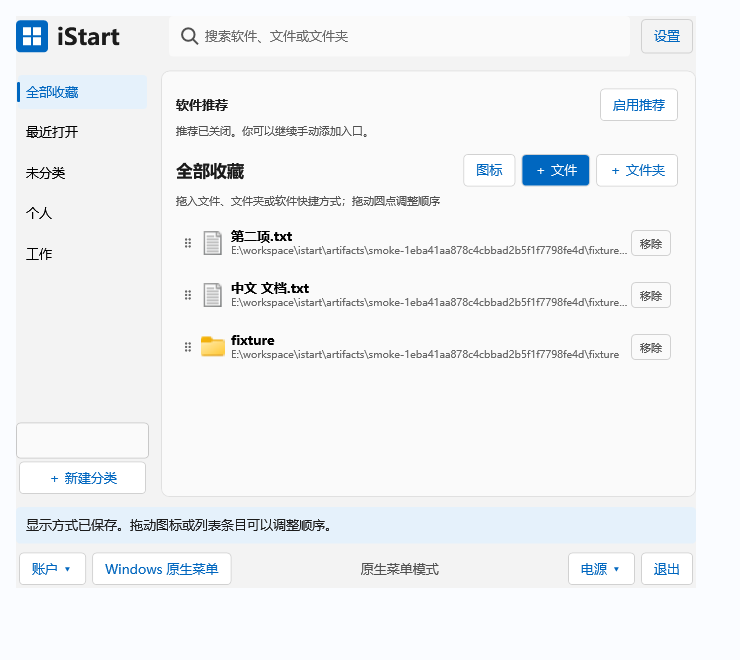
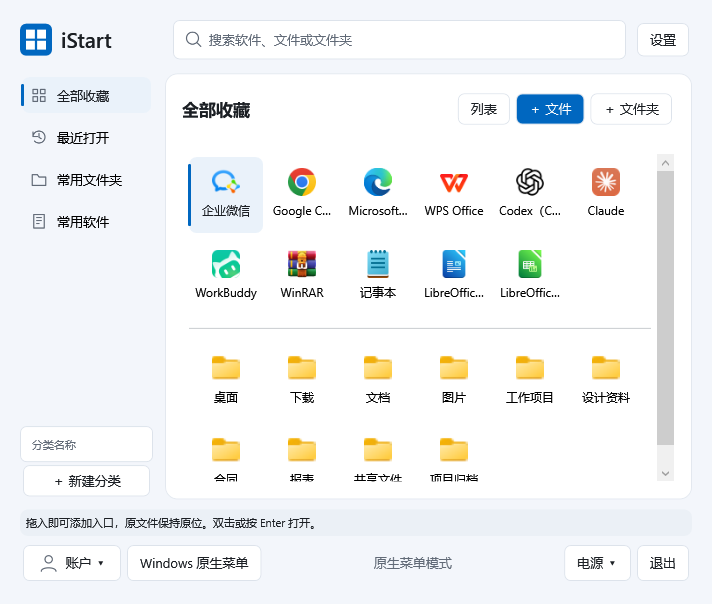
按 Figma Win11 Fluent 优化 Windows 主题并保留双风格切换

diff --git a/src/IStart.App/MainWindow.xaml b/src/IStart.App/MainWindow.xaml
@@ -1,32 +1,32 @@
 <Window x:Class="IStart.MainWindow" xmlns="http://schemas.microsoft.com/winfx/2006/xaml/presentation" xmlns:x="http://schemas.microsoft.com/winfx/2006/xaml" xmlns:local="clr-namespace:IStart"
-        Title="iStart · 个人开始菜单" Width="740" Height="660" MinWidth="620" MinHeight="540" Background="{DynamicResource Surface}" Foreground="{DynamicResource TextPrimary}" FontFamily="Microsoft YaHei UI" FontSize="13" WindowStartupLocation="CenterScreen">
+        Title="iStart · 个人开始菜单" Width="740" Height="660" MinWidth="620" MinHeight="540" Background="{DynamicResource Surface}" Foreground="{DynamicResource TextPrimary}" FontFamily="{DynamicResource MenuFont}" FontSize="13" WindowStartupLocation="CenterScreen">
   <Window.Resources>
-    <local:ShellIconConverter x:Key="ShellIcon"/>
+    <local:ShellIconConverter x:Key="ShellIcon"/><local:CategoryIconConverter x:Key="CategoryIcon"/>
     <ItemsPanelTemplate x:Key="IconPanel"><WrapPanel/></ItemsPanelTemplate>
-    <DataTemplate x:Key="EntryTile"><StackPanel Width="78" Height="68" ToolTip="{Binding Target}"><Image Source="{Binding Target, Converter={StaticResource ShellIcon}}" Width="28" Height="28" Margin="0,4,0,6"/><TextBlock Text="{Binding Title}" TextTrimming="CharacterEllipsis" TextAlignment="Center"/></StackPanel></DataTemplate>
+    <DataTemplate x:Key="EntryTile"><StackPanel Width="{DynamicResource TileWidth}" Height="{DynamicResource TileHeight}" ToolTip="{Binding Target}"><Image Source="{Binding Target, Converter={StaticResource ShellIcon}}" Width="28" Height="28" Margin="0,4,0,6"/><TextBlock Text="{Binding Title}" FontSize="{DynamicResource TileFontSize}" TextTrimming="CharacterEllipsis" TextAlignment="Center"/></StackPanel></DataTemplate>
   </Window.Resources>
-  <Grid Margin="16" Background="{DynamicResource Surface}">
+  <Grid Margin="{DynamicResource WindowPadding}" Background="{DynamicResource Surface}">
     <Grid.RowDefinitions><RowDefinition Height="Auto"/><RowDefinition Height="*"/><RowDefinition Height="Auto"/><RowDefinition Height="Auto"/></Grid.RowDefinitions>
     <Grid Margin="0,0,0,14">
       <Grid.ColumnDefinitions><ColumnDefinition Width="145"/><ColumnDefinition Width="*"/><ColumnDefinition Width="Auto"/></Grid.ColumnDefinitions>
-      <StackPanel Orientation="Horizontal" VerticalAlignment="Center"><Border Background="{DynamicResource Accent}" CornerRadius="{DynamicResource BrandRadius}" Width="32" Height="32" Margin="0,0,9,0"><Grid><Path Data="M0,0 H8 V8 H0 Z M10,0 H18 V8 H10 Z M0,10 H8 V18 H0 Z M10,10 H18 V18 H10 Z" Fill="White" Width="18" Height="18" Stretch="Uniform" HorizontalAlignment="Center" VerticalAlignment="Center" Visibility="{DynamicResource WindowsBrandVisibility}"/><TextBlock Visibility="{DynamicResource GoogleBrandVisibility}" Text="i" Foreground="White" FontSize="23" FontWeight="Bold" HorizontalAlignment="Center" VerticalAlignment="Center"/></Grid></Border><TextBlock Text="iStart" FontSize="23" FontWeight="SemiBold" VerticalAlignment="Center"/></StackPanel>
-      <Grid Grid.Column="1" Margin="8,0"><TextBox x:Name="SearchBox" TextChanged="SearchChanged" ToolTip="搜索软件、文件或文件夹" AutomationProperties.Name="搜索软件和收藏" Padding="36,12,12,12" BorderThickness="0"/><Path Data="M 12,3 A 9,9 0 1 1 11.99,3 M 19,19 L 26,26" Stroke="{DynamicResource TextSecondary}" StrokeThickness="2" Width="18" Height="18" Stretch="Uniform" HorizontalAlignment="Left" Margin="12,0,0,0" VerticalAlignment="Center" IsHitTestVisible="False"/><TextBlock Text="搜索软件、文件或文件夹" Foreground="{DynamicResource TextMuted}" Margin="36,0,0,0" VerticalAlignment="Center" IsHitTestVisible="False"><TextBlock.Style><Style TargetType="TextBlock"><Setter Property="Visibility" Value="Collapsed"/><Style.Triggers><DataTrigger Binding="{Binding Text, ElementName=SearchBox}" Value=""><Setter Property="Visibility" Value="Visible"/></DataTrigger></Style.Triggers></Style></TextBlock.Style></TextBlock></Grid>
-      <Button Grid.Column="2" Content="设置" Background="Transparent" Click="OpenSettings" AutomationProperties.Name="设置"/>
+      <StackPanel Orientation="Horizontal" VerticalAlignment="Center"><Border Background="{DynamicResource Accent}" CornerRadius="{DynamicResource BrandRadius}" Width="32" Height="32" Margin="0,0,9,0"><Grid><Path Data="M0,0 H8 V8 H0 Z M10,0 H18 V8 H10 Z M0,10 H8 V18 H0 Z M10,10 H18 V18 H10 Z" Fill="White" Width="{DynamicResource BrandIconSize}" Height="{DynamicResource BrandIconSize}" Stretch="Uniform" HorizontalAlignment="Center" VerticalAlignment="Center" Visibility="{DynamicResource WindowsBrandVisibility}"/><TextBlock Visibility="{DynamicResource GoogleBrandVisibility}" Text="i" Foreground="White" FontSize="23" FontWeight="Bold" HorizontalAlignment="Center" VerticalAlignment="Center"/></Grid></Border><TextBlock Text="iStart" FontSize="{DynamicResource BrandTitleSize}" FontWeight="SemiBold" VerticalAlignment="Center"/></StackPanel>
+      <Grid Grid.Column="1" Margin="8,0"><TextBox x:Name="SearchBox" TextChanged="SearchChanged" ToolTip="搜索软件、文件或文件夹" AutomationProperties.Name="搜索软件和收藏" Padding="{DynamicResource SearchPadding}" BorderThickness="{DynamicResource SearchBorder}"/><Path Data="M 12,3 A 9,9 0 1 1 11.99,3 M 19,19 L 26,26" Stroke="{DynamicResource TextSecondary}" StrokeThickness="2" Width="18" Height="18" Stretch="Uniform" HorizontalAlignment="Left" Margin="12,0,0,0" VerticalAlignment="Center" IsHitTestVisible="False" Visibility="{DynamicResource GoogleBrandVisibility}"/><Image Source="Assets/Fluent/search.png" Width="18" Height="18" HorizontalAlignment="Left" Margin="12,0,0,0" VerticalAlignment="Center" IsHitTestVisible="False" Visibility="{DynamicResource WindowsBrandVisibility}"/><TextBlock Text="搜索软件、文件或文件夹" Foreground="{DynamicResource TextMuted}" Margin="36,0,0,0" VerticalAlignment="Center" IsHitTestVisible="False"><TextBlock.Style><Style TargetType="TextBlock"><Setter Property="Visibility" Value="Collapsed"/><Style.Triggers><DataTrigger Binding="{Binding Text, ElementName=SearchBox}" Value=""><Setter Property="Visibility" Value="Visible"/></DataTrigger></Style.Triggers></Style></TextBlock.Style></TextBlock></Grid>
+      <Button Grid.Column="2" Content="设置" Background="{DynamicResource SettingsSurface}" Click="OpenSettings" AutomationProperties.Name="设置"/>
     </Grid>
     <Grid Grid.Row="1">
       <Grid.ColumnDefinitions><ColumnDefinition Width="145"/><ColumnDefinition Width="*"/></Grid.ColumnDefinitions>
       <DockPanel Margin="0,0,12,0">
         <StackPanel DockPanel.Dock="Bottom">
-          <TextBox x:Name="CategoryName" Height="36" ToolTip="新分类名称" AutomationProperties.Name="新分类名称"/>
+          <Grid><TextBox x:Name="CategoryName" Height="36" ToolTip="新分类名称" AutomationProperties.Name="新分类名称"/><TextBlock Text="分类名称" FontSize="11" Foreground="{DynamicResource TextMuted}" Margin="12,0,0,0" VerticalAlignment="Center" IsHitTestVisible="False"><TextBlock.Style><Style TargetType="TextBlock"><Setter Property="Visibility" Value="Collapsed"/><Style.Triggers><DataTrigger Binding="{Binding Text, ElementName=CategoryName}" Value=""><Setter Property="Visibility" Value="{DynamicResource WindowsBrandVisibility}"/></DataTrigger></Style.Triggers></Style></TextBlock.Style></TextBlock></Grid>
           <Button Content="＋ 新建分类" Click="AddCategory"/>
         </StackPanel>
-        <ListBox x:Name="CategoryList" BorderThickness="0" Background="Transparent" SelectionChanged="CategoryChanged" AllowDrop="True" Drop="CategoryDrop" DragOver="CategoryDragOver" PreviewMouseLeftButtonDown="CategoryMouseDown" PreviewMouseMove="CategoryMouseMove" DisplayMemberPath="Name" ContextMenuOpening="CategoryContextMenu" AutomationProperties.Name="分类">
-          <ListBox.ItemContainerStyle><Style TargetType="ListBoxItem" BasedOn="{StaticResource {x:Type ListBoxItem}}"><Setter Property="Padding" Value="8,9"/></Style></ListBox.ItemContainerStyle>
+        <ListBox x:Name="CategoryList" BorderThickness="0" Background="Transparent" SelectionChanged="CategoryChanged" AllowDrop="True" Drop="CategoryDrop" DragOver="CategoryDragOver" PreviewMouseLeftButtonDown="CategoryMouseDown" PreviewMouseMove="CategoryMouseMove" ContextMenuOpening="CategoryContextMenu" AutomationProperties.Name="分类">
+          <ListBox.ItemContainerStyle><Style TargetType="ListBoxItem" BasedOn="{StaticResource {x:Type ListBoxItem}}"><Setter Property="Padding" Value="8,9"/></Style></ListBox.ItemContainerStyle><ListBox.ItemTemplate><DataTemplate><StackPanel Orientation="Horizontal"><Image Source="{Binding Converter={StaticResource CategoryIcon}}" Width="18" Height="18" Margin="0,0,9,0" Visibility="{DynamicResource WindowsBrandVisibility}"/><TextBlock Text="{Binding Name}" VerticalAlignment="Center"/></StackPanel></DataTemplate></ListBox.ItemTemplate>
           <ListBox.ContextMenu><ContextMenu/></ListBox.ContextMenu>
 
         </ListBox>
       </DockPanel>
-      <Border Grid.Column="1" Background="{DynamicResource ContentSurface}" CornerRadius="{DynamicResource CardRadius}" BorderBrush="{DynamicResource CardOutline}" BorderThickness="1" Padding="14"><DockPanel>
+      <Border Grid.Column="1" Background="{DynamicResource ContentSurface}" CornerRadius="{DynamicResource CardRadius}" BorderBrush="{DynamicResource CardOutline}" BorderThickness="1" Padding="{DynamicResource ContentPadding}"><DockPanel>
         <StackPanel DockPanel.Dock="Top">
           <StackPanel x:Name="SoftwarePanel" Visibility="Collapsed">
           <TextBlock x:Name="RecommendationTitle" Text="软件搜索结果" FontWeight="SemiBold" Visibility="Collapsed"/>
@@ -34,7 +34,7 @@
           <ScrollViewer MaxHeight="210" VerticalScrollBarVisibility="Auto" HorizontalScrollBarVisibility="Disabled"><WrapPanel x:Name="Recommendations" Margin="0,5,0,8"/></ScrollViewer>
           </StackPanel>
           <DockPanel><StackPanel Orientation="Horizontal" DockPanel.Dock="Right"><Button x:Name="ViewToggle" Content="图标" Click="ToggleView"/><Button Content="＋ 文件" Style="{StaticResource PrimaryButton}" Click="AddFile"/><Button Content="＋ 文件夹" Click="AddFolder"/></StackPanel><TextBlock x:Name="SectionTitle" Text="我的收藏" FontSize="17" FontWeight="SemiBold" VerticalAlignment="Center"/></DockPanel>
-          <TextBlock Text="拖入文件、文件夹或软件快捷方式；拖动圆点调整顺序" Foreground="{DynamicResource TextSecondary}" FontSize="11" Margin="0,4,0,9" TextWrapping="Wrap"/>
+          <TextBlock Visibility="{DynamicResource GoogleBrandVisibility}" Text="拖入文件、文件夹或软件快捷方式；拖动圆点调整顺序" Foreground="{DynamicResource TextSecondary}" FontSize="11" Margin="0,4,0,9" TextWrapping="Wrap"/>
         </StackPanel>
         <TextBlock x:Name="SearchStatus" DockPanel.Dock="Top" TextWrapping="Wrap" Foreground="{DynamicResource TextSecondary}" Margin="0,0,0,8"/><ListBox x:Name="EntryList" BorderThickness="0" Background="{DynamicResource ContentSurface}" ScrollViewer.HorizontalScrollBarVisibility="Disabled" AllowDrop="True" Drop="EntryDrop" DragOver="EntryDragOver" DragLeave="EntryDragLeave" PreviewMouseLeftButtonDown="EntryMouseLeftButtonDown" PreviewMouseMove="EntryMouseMove" MouseDoubleClick="OpenSelected" KeyDown="EntryKeyDown" ContextMenuOpening="EntryContextMenu" AutomationProperties.Name="收藏入口">
           <ListBox.ContextMenu><ContextMenu/></ListBox.ContextMenu>
@@ -60,7 +60,7 @@
         </ListBox>
       </DockPanel></Border>
     </Grid>
-    <Border Grid.Row="2" Background="{DynamicResource AccentSoft}" CornerRadius="{DynamicResource StatusRadius}" Padding="10" Margin="0,10,0,6"><DockPanel><Button x:Name="UndoButton" Content="撤销移除" Visibility="Collapsed" DockPanel.Dock="Right" Click="UndoRemove"/><TextBlock x:Name="StatusText" Text="拖入即可添加入口，原文件保持原位。双击或按 Enter 打开。" TextWrapping="Wrap" VerticalAlignment="Center"/></DockPanel></Border>
-    <Grid Grid.Row="3"><Grid.ColumnDefinitions><ColumnDefinition Width="Auto"/><ColumnDefinition Width="*"/><ColumnDefinition Width="Auto"/></Grid.ColumnDefinitions><StackPanel Orientation="Horizontal"><Button Content="账户 ▾" Click="AccountMenu"/><Button Content="Windows 原生菜单" Click="OpenNative"/></StackPanel><TextBlock x:Name="ModeStatus" Grid.Column="1" Text="原生菜单模式" Foreground="{DynamicResource TextSecondary}" VerticalAlignment="Center" HorizontalAlignment="Center"/><StackPanel Grid.Column="2" Orientation="Horizontal"><Button Content="电源 ▾" Click="PowerMenu"/><Button Content="退出" Click="Exit"/></StackPanel></Grid>
+    <Border Grid.Row="2" Background="{DynamicResource StatusSurface}" CornerRadius="{DynamicResource StatusRadius}" Padding="{DynamicResource StatusPadding}" Margin="0,10,0,6"><DockPanel><Button x:Name="UndoButton" Content="撤销移除" Visibility="Collapsed" DockPanel.Dock="Right" Click="UndoRemove"/><TextBlock x:Name="StatusText" FontSize="{DynamicResource StatusFontSize}" Text="拖入即可添加入口，原文件保持原位。双击或按 Enter 打开。" TextWrapping="Wrap" VerticalAlignment="Center"/></DockPanel></Border>
+    <Grid Grid.Row="3"><Grid.ColumnDefinitions><ColumnDefinition Width="Auto"/><ColumnDefinition Width="*"/><ColumnDefinition Width="Auto"/></Grid.ColumnDefinitions><StackPanel Orientation="Horizontal"><Button Click="AccountMenu" MinWidth="{DynamicResource AccountMinWidth}"><StackPanel Orientation="Horizontal"><Image Source="Assets/Fluent/account.png" Width="22" Height="22" Margin="0,0,6,0" Visibility="{DynamicResource WindowsBrandVisibility}"/><TextBlock Text="账户 ▾" VerticalAlignment="Center"/></StackPanel></Button><Button Content="Windows 原生菜单" Click="OpenNative"/></StackPanel><TextBlock x:Name="ModeStatus" Grid.Column="1" Text="原生菜单模式" Foreground="{DynamicResource TextSecondary}" VerticalAlignment="Center" HorizontalAlignment="Center"/><StackPanel Grid.Column="2" Orientation="Horizontal"><Button Content="电源 ▾" Click="PowerMenu"/><Button Content="退出" Click="Exit"/></StackPanel></Grid>
   </Grid>
 </Window>

diff --git a/src/IStart.App/App.xaml b/src/IStart.App/App.xaml
@@ -2,9 +2,9 @@
   <Application.Resources>
     <!-- 运行时由 Appearance 提供可动态切换的颜色与形状资源。 -->
     <Style TargetType="Button">
-      <Setter Property="Background" Value="{DynamicResource ButtonSurface}"/><Setter Property="Foreground" Value="{DynamicResource Accent}"/>
+      <Setter Property="Background" Value="{DynamicResource ButtonSurface}"/><Setter Property="Foreground" Value="{DynamicResource ButtonText}"/>
       <Setter Property="BorderBrush" Value="{DynamicResource ButtonOutline}"/><Setter Property="BorderThickness" Value="1"/>
-      <Setter Property="Padding" Value="12,7"/><Setter Property="Margin" Value="3"/><Setter Property="Cursor" Value="Hand"/>
+      <Setter Property="Padding" Value="{DynamicResource ButtonPadding}"/><Setter Property="Margin" Value="3"/><Setter Property="Cursor" Value="Hand"/>
       <Setter Property="Template"><Setter.Value><ControlTemplate TargetType="Button">
         <Border x:Name="Surface" Background="{TemplateBinding Background}" BorderBrush="{TemplateBinding BorderBrush}" BorderThickness="{TemplateBinding BorderThickness}" CornerRadius="{DynamicResource ButtonRadius}" Padding="{TemplateBinding Padding}">
           <ContentPresenter HorizontalAlignment="Center" VerticalAlignment="Center" RecognizesAccessKey="True"/>
@@ -21,15 +21,15 @@
     <Style TargetType="TextBox">
       <Setter Property="Padding" Value="12,8"/><Setter Property="Background" Value="{DynamicResource ContentSurface}"/><Setter Property="BorderBrush" Value="{DynamicResource Outline}"/><Setter Property="BorderThickness" Value="1"/>
       <Setter Property="Template"><Setter.Value><ControlTemplate TargetType="TextBox">
-        <Border x:Name="Surface" CornerRadius="{DynamicResource InputRadius}" Background="{TemplateBinding Background}" BorderBrush="{TemplateBinding BorderBrush}" BorderThickness="{TemplateBinding BorderThickness}"><ScrollViewer x:Name="PART_ContentHost" Focusable="False"/></Border>
-        <ControlTemplate.Triggers><Trigger Property="IsKeyboardFocused" Value="True"><Setter TargetName="Surface" Property="BorderBrush" Value="{DynamicResource Accent}"/></Trigger><Trigger Property="IsEnabled" Value="False"><Setter TargetName="Surface" Property="Opacity" Value="0.45"/></Trigger></ControlTemplate.Triggers>
+        <Grid><Border x:Name="Surface" CornerRadius="{DynamicResource InputRadius}" Background="{TemplateBinding Background}" BorderBrush="{TemplateBinding BorderBrush}" BorderThickness="{TemplateBinding BorderThickness}"><ScrollViewer x:Name="PART_ContentHost" Focusable="False"/></Border><Border x:Name="FocusLine" Height="2" Margin="6,0" VerticalAlignment="Bottom" Background="{DynamicResource Accent}" CornerRadius="1" Visibility="Collapsed" IsHitTestVisible="False"/></Grid>
+        <ControlTemplate.Triggers><Trigger Property="IsKeyboardFocused" Value="True"><Setter TargetName="Surface" Property="BorderBrush" Value="{DynamicResource InputFocusOutline}"/><Setter TargetName="FocusLine" Property="Visibility" Value="{DynamicResource WindowsBrandVisibility}"/></Trigger><Trigger Property="IsEnabled" Value="False"><Setter TargetName="Surface" Property="Opacity" Value="0.45"/></Trigger></ControlTemplate.Triggers>
       </ControlTemplate></Setter.Value></Setter>
     </Style>
     <Style TargetType="ListBoxItem">
       <Setter Property="Padding" Value="8"/><Setter Property="Margin" Value="0,2"/><Setter Property="HorizontalContentAlignment" Value="Stretch"/><Setter Property="Background" Value="Transparent"/>
       <Setter Property="Template"><Setter.Value><ControlTemplate TargetType="ListBoxItem">
         <Grid><Border x:Name="Surface" CornerRadius="{DynamicResource ItemRadius}" Background="{TemplateBinding Background}" BorderBrush="{TemplateBinding BorderBrush}" BorderThickness="{TemplateBinding BorderThickness}" Padding="{TemplateBinding Padding}"><ContentPresenter/></Border><Border x:Name="SelectionIndicator" Width="3" CornerRadius="1" HorizontalAlignment="Left" Margin="0,8" Background="{DynamicResource Accent}" Visibility="Collapsed"/></Grid>
-        <ControlTemplate.Triggers><Trigger Property="IsMouseOver" Value="True"><Setter TargetName="Surface" Property="Background" Value="{DynamicResource HoverSurface}"/></Trigger><Trigger Property="IsSelected" Value="True"><Setter TargetName="SelectionIndicator" Property="Visibility" Value="{DynamicResource SelectionIndicatorVisibility}"/><Setter TargetName="Surface" Property="Background" Value="{DynamicResource AccentSoft}"/><Setter Property="Foreground" Value="{DynamicResource Accent}"/></Trigger><Trigger Property="IsKeyboardFocusWithin" Value="True"><Setter TargetName="Surface" Property="BorderBrush" Value="{DynamicResource Accent}"/><Setter TargetName="Surface" Property="BorderThickness" Value="1"/></Trigger></ControlTemplate.Triggers>
+        <ControlTemplate.Triggers><Trigger Property="IsMouseOver" Value="True"><Setter TargetName="Surface" Property="Background" Value="{DynamicResource HoverSurface}"/></Trigger><Trigger Property="IsSelected" Value="True"><Setter TargetName="SelectionIndicator" Property="Visibility" Value="{DynamicResource SelectionIndicatorVisibility}"/><Setter TargetName="Surface" Property="Background" Value="{DynamicResource AccentSoft}"/><Setter Property="Foreground" Value="{DynamicResource SelectionText}"/></Trigger><Trigger Property="IsKeyboardFocusWithin" Value="True"><Setter TargetName="Surface" Property="BorderBrush" Value="{DynamicResource Accent}"/><Setter TargetName="Surface" Property="BorderThickness" Value="1"/></Trigger></ControlTemplate.Triggers>
       </ControlTemplate></Setter.Value></Setter>
     </Style>
   </Application.Resources>

diff --git a/src/IStart.App/Appearance.cs b/src/IStart.App/Appearance.cs
@@ -15,24 +15,43 @@ internal static class Appearance
             brush.Freeze();
             resources[key] = brush;
         }
-        Brush("Surface", windows ? "#F3F3F3" : "#F8FAFD");
-        Brush("ContentSurface", windows ? "#FAFAFA" : "#FFFFFF");
-        Brush("TextPrimary", windows ? "#1B1B1B" : "#202124");
-        Brush("TextSecondary", windows ? "#505050" : "#5F6368");
-        Brush("TextMuted", windows ? "#666666" : "#80868B");
+        Brush("Surface", windows ? "#F3F6FB" : "#F8FAFD");
+        Brush("ContentSurface", "#FFFFFF");
+        Brush("TextPrimary", windows ? "#1B1F24" : "#202124");
+        Brush("TextSecondary", windows ? "#616A77" : "#5F6368");
+        Brush("TextMuted", windows ? "#616A77" : "#80868B");
         Brush("Accent", windows ? "#0067C0" : "#0B57D0");
-        Brush("AccentSoft", windows ? "#E5F1FB" : "#E8F0FE");
+        Brush("AccentSoft", windows ? "#EAF2FA" : "#E8F0FE");
         Brush("ButtonSurface", windows ? "#FFFFFF" : "#E8F0FE");
-        Brush("ButtonOutline", windows ? "#D1D1D1" : "#00000000");
-        Brush("Outline", windows ? "#C8C8C8" : "#DADCE0");
-        Brush("CardOutline", windows ? "#E0E0E0" : "#00000000");
-        Brush("HoverSurface", windows ? "#E9E9E9" : "#F1F5FC");
-        resources["ButtonRadius"] = new CornerRadius(windows ? 4 : 16);
-        resources["InputRadius"] = new CornerRadius(windows ? 4 : 14);
-        resources["ItemRadius"] = new CornerRadius(windows ? 4 : 12);
-        resources["CardRadius"] = new CornerRadius(windows ? 8 : 20);
-        resources["StatusRadius"] = new CornerRadius(windows ? 4 : 12);
-        resources["BrandRadius"] = new CornerRadius(windows ? 4 : 10);
+        Brush("ButtonOutline", windows ? "#DDE3EB" : "#00000000");
+        Brush("Outline", windows ? "#DDE3EB" : "#DADCE0");
+        Brush("CardOutline", windows ? "#E3E8EF" : "#00000000");
+        Brush("HoverSurface", windows ? "#F0F4F9" : "#F1F5FC");
+        Brush("ButtonText", windows ? "#1B1F24" : "#0B57D0");
+        Brush("SelectionText", windows ? "#1B1F24" : "#0B57D0");
+        Brush("InputFocusOutline", windows ? "#DDE3EB" : "#0B57D0");
+        Brush("StatusSurface", windows ? "#EBF0F6" : "#E8F0FE");
+        Brush("SettingsSurface", windows ? "#FFFFFF" : "#00000000");
+        resources["ButtonRadius"] = new CornerRadius(windows ? 6 : 16);
+        resources["InputRadius"] = new CornerRadius(windows ? 6 : 14);
+        resources["ItemRadius"] = new CornerRadius(windows ? 8 : 12);
+        resources["CardRadius"] = new CornerRadius(windows ? 12 : 20);
+        resources["StatusRadius"] = new CornerRadius(windows ? 8 : 12);
+        resources["BrandRadius"] = new CornerRadius(windows ? 6 : 10);
+        resources["WindowPadding"] = new Thickness(windows ? 20 : 16);
+        resources["ContentPadding"] = new Thickness(windows ? 16 : 14);
+        resources["ButtonPadding"] = new Thickness(12, windows ? 6 : 7, 12, windows ? 6 : 7);
+        resources["SearchPadding"] = new Thickness(36, windows ? 10 : 12, 12, windows ? 10 : 12);
+        resources["SearchBorder"] = new Thickness(windows ? 1 : 0);
+        resources["TileWidth"] = windows ? 64.0 : 78.0;
+        resources["TileHeight"] = windows ? 62.0 : 68.0;
+        resources["TileFontSize"] = windows ? 12.0 : 13.0;
+        resources["BrandIconSize"] = windows ? 20.0 : 18.0;
+        resources["BrandTitleSize"] = windows ? 21.0 : 23.0;
+        resources["StatusPadding"] = new Thickness(windows ? 6 : 10);
+        resources["StatusFontSize"] = windows ? 11.0 : 13.0;
+        resources["AccountMinWidth"] = windows ? 98.0 : 0.0;
+        resources["MenuFont"] = new FontFamily(windows ? "Segoe UI Variable, Microsoft YaHei UI" : "Microsoft YaHei UI");
         resources["SelectionIndicatorVisibility"] = windows ? Visibility.Visible : Visibility.Collapsed;
         resources["WindowsBrandVisibility"] = windows ? Visibility.Visible : Visibility.Collapsed;
         resources["GoogleBrandVisibility"] = windows ? Visibility.Collapsed : Visibility.Visible;

diff --git a/src/IStart.App/SmokeTest.cs b/src/IStart.App/SmokeTest.cs
@@ -196,12 +196,17 @@ internal static class SmokeTest
         var originalEntries = store.Library.Entries.ToArray();
         store.Change(s => s.CustomMenuEnabled = true);
         window.SetTheme("Windows");
+        foreach (var nav in new[] { new MenuCategory(new Guid("ffffffff-ffff-ffff-ffff-ffffffffffff"), "全部收藏"), new MenuCategory(new Guid("eeeeeeee-eeee-eeee-eeee-eeeeeeeeeeee"), "最近打开"), new MenuCategory(Guid.Empty, "常用文件夹"), new MenuCategory(Guid.NewGuid(), "常用软件") })
+        {
+            var icon = new CategoryIconConverter().Convert(nav, typeof(ImageSource), null!, System.Globalization.CultureInfo.CurrentCulture) as BitmapSource;
+            Check(icon is not null && icon.IsFrozen && icon.PixelWidth == 36 && icon.PixelHeight == 36, "Fluent 导航图标嵌入与尺寸");
+        }
         Check(new LibraryStore(Path.Combine(store.DirectoryPath, "library.json")).Library.Theme == "Windows", "Windows 风格保存重开");
         ((System.Windows.Controls.Button)window.FindName("ViewToggle")).RaiseEvent(new RoutedEventArgs(System.Windows.Controls.Button.ClickEvent));
         content.Measure(new Size(712, 604));
         content.Arrange(new Rect(0, 0, 712, 604));
         content.UpdateLayout();
-        Check(inputSurface.CornerRadius.TopLeft == 4, "动态更新输入框形状");
+        Check(inputSurface.CornerRadius.TopLeft == 6, "动态更新输入框形状");
         var windowsBitmap = new RenderTargetBitmap(740, 660, 96, 96, PixelFormats.Pbgra32);
         windowsBitmap.Render(backdrop); windowsBitmap.Render(content);
         var windowsEncoder = new PngBitmapEncoder(); windowsEncoder.Frames.Add(BitmapFrame.Create(windowsBitmap));

diff --git a/src/IStart.App/CategoryIconConverter.cs b/src/IStart.App/CategoryIconConverter.cs
@@ -1,0 +1,25 @@
+using System.Globalization;
+using System.Windows.Data;
+using System.Windows.Media.Imaging;
+
+namespace IStart;
+
+public sealed class CategoryIconConverter : IValueConverter
+{
+    private static readonly Dictionary<string, BitmapImage> Icons = new();
+    public object? Convert(object value, Type targetType, object parameter, CultureInfo culture)
+    {
+        if (value is not MenuCategory category) return null;
+        var name = category.Id == new Guid("ffffffff-ffff-ffff-ffff-ffffffffffff") ? "all"
+            : category.Id == new Guid("eeeeeeee-eeee-eeee-eeee-eeeeeeeeeeee") ? "recent"
+            : category.Name == "常用软件" ? "apps" : "folder";
+        if (!Icons.TryGetValue(name, out var icon))
+        {
+            icon = new BitmapImage(new Uri("pack://application:,,,/IStart.App;component/Assets/Fluent/" + name + ".png"));
+            icon.Freeze();
+            Icons.Add(name, icon);
+        }
+        return icon;
+    }
+    public object ConvertBack(object value, Type targetType, object parameter, CultureInfo culture) => throw new NotSupportedException();
+}

diff --git a/src/IStart.App/MainWindow.Shell.cs b/src/IStart.App/MainWindow.Shell.cs
@@ -176,6 +176,7 @@ public partial class MainWindow
         var window = new Window { Owner = this, Title = "iStart 设置", Width = 430, SizeToContent = SizeToContent.Height, ResizeMode = ResizeMode.NoResize, WindowStartupLocation = WindowStartupLocation.CenterOwner, Content = panel, Background = Background, Foreground = Foreground, FontFamily = FontFamily };
         window.SetResourceReference(BackgroundProperty, "Surface");
         window.SetResourceReference(ForegroundProperty, "TextPrimary");
+        window.SetResourceReference(FontFamilyProperty, "MenuFont");
         panel.Children.Add(new TextBlock { Text = "外观风格", FontSize = 20, FontWeight = FontWeights.SemiBold, Margin = new Thickness(0, 0, 0, 10) });
         var theme = new ComboBox { ItemsSource = new[] { "Windows 风格", "Google 风格" }, SelectedIndex = store.Library.Theme == "Windows" ? 0 : 1, Margin = new Thickness(0, 0, 0, 8), Padding = new Thickness(10, 7, 10, 7) };
         System.Windows.Automation.AutomationProperties.SetName(theme, "外观风格");

diff --git a/docs/WIN11_FLUENT_VALIDATION.md b/docs/WIN11_FLUENT_VALIDATION.md
@@ -1,0 +1,26 @@
+# Windows 11 Fluent 美化验证：preview.13
+
+日期：2026-10-13。
+
+## 设计与实现
+
+[Figma 可编辑稿](https://www.figma.com/design/fChA8PN9ewvBN02v9O1OjA?node-id=10-173) 在原 Material 稿旁新增，原稿保留。设计包含 Button、Navigation、EntryTile 三个局部组件族、16 个颜色/间距/圆角变量、四个文字样式和菜单阴影样式。界面由可编辑节点与 34 个实例组成，12 个图像节点仅为原应用图标，未使用整屏截图代替界面。
+
+Windows 配色采用 #F3F6FB 背景、白色内容、#0067C0 强调、#EAF2FA 选中底色与浅边框；输入/按钮 6 DIP 圆角、内容 12 DIP。增加灰色导航图标、左侧蓝色指示、搜索焦点底线、账户图标及更淡的状态区。默认宽度六列，窄窗口自动换行。Google 沿用原颜色、尺寸和字体值，保持即时切换。
+
+保留软件/文件分割线、推荐隐藏、全部收藏顺序、最近文件来源、拖入排序、账户电源、原生恢复和开始接入。新分类输入增加 Windows 风格占位说明。应用和文件夹图标仍由数据目标实时读取，示例目录不写入用户配置。
+
+## 资源证据
+
+导航 all/recent/folder/apps 分别来自 Figma 节点 10:130、10:135、10:144、10:153；搜索来自 10:182，账户来自 10:329。原 SVG 留在 Assets/Fluent，派生 PNG 对应 18 DIP 导航/搜索和 22 DIP 账户槽位，均按 2× 像素导出栅格资源；检查非透明像素与尺寸通过。PNG 作为 WPF Resource 嵌入，无临时 Figma URL 或运行时网络依赖。品牌四窗格复用现有相同图形。
+
+## 验证与差异
+
+- 构建、数据保护、最近记录、分组和双主题核心回归通过；导航图片冻结与 36×36 尺寸检查通过。
+- 712×604 默认内容预览与 592×484 紧凑预览已渲染，搜索/视图/模式提示/列表均在边界内；账户按钮增加最小宽度，避免图标挤压文字。
+- Win11 真实程序预览使用公开应用名称和示例目录，未将用户真实文件路径放入截图。
+- Figma 仅提供 Noto Sans SC，已核对稿内文字都使用该替代字体；因此不宣称与系统字体逐像素相同。Windows 程序采用 Segoe UI Variable / Microsoft YaHei UI；标准标题栏和状态条保留。阴影由系统窗口提供，未实现原生 Mica 模糊。
+- 真实目录数量、名称和应用标题由配置决定；长标题截断并保留提示，内容超出时滚动。
+- 未通过自动化发送 Win 键或执行电源动作；最终安装更新及手动界面反馈另记。
+
+README、ARCHITECTURE、执行计划同步，VISION 复核，方向不变。

diff --git a/ARCHITECTURE.md b/ARCHITECTURE.md
@@ -82,3 +82,7 @@ LibreOfficeDocuments 只读当前用户 4/user/registrymodifications.xcu（≤8 
 软件推荐展示（preview.11）：RecommendationsEnabled 新配置默认 false；SoftwarePanel 整体 Collapsed，不保留布局空间。移除菜单内推荐开关与对应处理器，设置是唯一启用入口。标题和说明只在主动搜索时显示，推荐模式仅展示图标。查询非空时搜索结果独立于推荐偏好，清空后按偏好收起。当前用户设置同步关闭，其他收藏、分类、主题和接入保留。
 
 收藏分隔（preview.12）：无搜索的全部收藏同时含两类入口时，ListCollectionView 使用 EntryGroups 视觉分组，程序在上，文件/文件夹在下。Shell 应用、可执行文件/脚本及指向程序的快捷方式归程序；其余归文件类。分类结果有界缓存，源 Entries 不排序改写。GroupStyle 外层纵排、组内沿用图标 WrapPanel 或列表面板，只有第二组渲染横线；单类视图、分类、最近和搜索不增加分隔。
+
+Windows 11 Fluent（preview.13）：Appearance 继续统一管理双主题，增加主题专属内边距、搜索边框、按钮文字、菜单字体、图标尺寸及状态区资源。Windows 入口宽度缩至 64 DIP（含列表容器边距后默认宽度六列），小窗口自动换行；Google 沿用原资源值。CategoryIconConverter 仅加载四个冻结导航位图，搜索/账户图标同样使用本地嵌入资源。Assets/Fluent 保留 Figma 导出的原 SVG 和派生 PNG；程序嵌入 PNG，无运行时网络请求、SVG 渲染库或新增应用依赖。搜索 PART_ContentHost 与焦点/接入逻辑不变。
+
+窗口继续使用系统标题栏、边框和阴影；本版应用浅色层次，未启用原生 Mica 模糊。Figma 字体环境只有 Noto Sans SC，设计稿使用该替代字体；Windows 程序使用 Segoe UI Variable 并回退 Microsoft YaHei UI。Google 字体沿用原值。运行时文字和文件夹内容保持真实数据，不替换成稿中的示例名称。

diff --git a/README.md b/README.md
@@ -4,7 +4,7 @@
 
 ## 当前状态
 
-当前为 **0.2.0-preview.12 试用版**。已有紧凑双栏、图标/列表切换、搜索、拖入与排序、分类管理、移除撤销、最近打开、本机软件推荐、托盘、账户电源入口和中文安装向导。
+当前为 **0.2.0-preview.13 试用版**。已有紧凑双栏、图标/列表切换、搜索、拖入与排序、分类管理、移除撤销、最近打开、本机软件推荐、托盘、账户电源入口和中文安装向导。
 
 界面已按 [Figma 优化稿](https://www.figma.com/design/fChA8PN9ewvBN02v9O1OjA?node-id=1-1245) 应用 Material 风格：浅色背景、蓝色重点、圆角搜索/分类/按钮和内容卡片；继续使用 Windows 本机真实软件图标与中文字体，无新增 UI 依赖。查看 [Google 风格预览](docs/prototypes/theme-google.png)、[Windows 风格预览](docs/prototypes/theme-windows.png) 与 [双风格验证记录](docs/THEME_VALIDATION.md)。
 
@@ -74,3 +74,5 @@ preview.10 将外部最近文件扩展至 Windows 自动 Jump List、LibreOffice
 preview.11 默认隐藏整个软件推荐区域，不显示标题、说明、开关或空白占位。只能在设置中启用显示；启用后也不显示推荐标题。主动搜索时仍显示软件搜索结果，清空搜索后恢复隐藏。
 
 preview.12 在全部收藏同时包含程序和文件/文件夹时分组显示：程序在上，文件/文件夹在下，中间一条横线；两组各自保持收藏顺序。列表和图标视图均支持，不增加分组标题或修改保存顺序。
+
+preview.13 的 Windows 风格按 [Win11 Fluent 优化稿](https://www.figma.com/design/fChA8PN9ewvBN02v9O1OjA?node-id=10-173) 更新：灰白层次、细边框与圆角、蓝色选中短线、分类图标、紧凑六列入口和搜索焦点底线；保留 Google 风格和全部功能。应用/文件夹图标仍从本机动态读取。查看 [程序预览](docs/prototypes/win11-fluent-app.png) 与 [验证记录](docs/WIN11_FLUENT_VALIDATION.md)。
